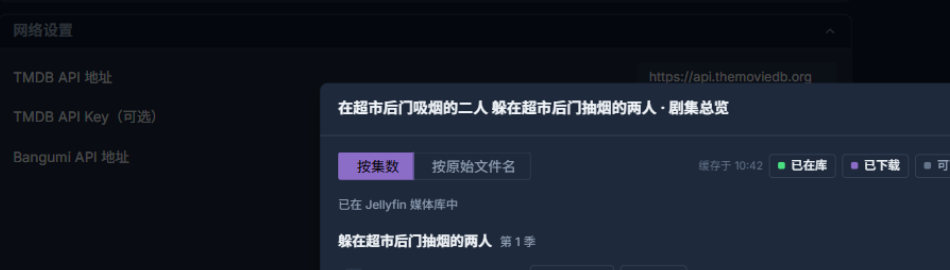
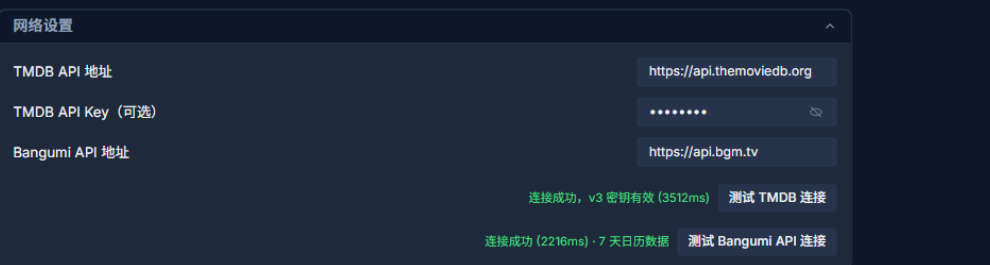
docs: 连通性测试截图重拍并补全三面板
网络设置此前被未关闭的剧集总览弹窗遮挡；本次三张均在无弹窗状态
下 1920x1080 实拍：网络设置（TMDB+Bangumi）、下载设置、媒体库，
后两者的服务器地址在图片上已模糊打码。

diff --git a/README.md b/README.md
@@ -157,7 +157,11 @@
 - **媒体库 → 测试 Jellyfin 连接**：验证地址与 API Key，附服务器名称与版本
 - 结果区分**网络不通 / 认证失败 / 服务端拒绝**三类，附延迟毫秒数
 
-![连通性测试](docs/images/conn-tests.png)
+![连通性测试-网络设置](docs/images/conn-tests.png)
+
+![连通性测试-下载设置](docs/images/conn-downloader.png)
+
+![连通性测试-媒体库](docs/images/conn-jellyfin.png)
 
 ### 数据库变更
 
